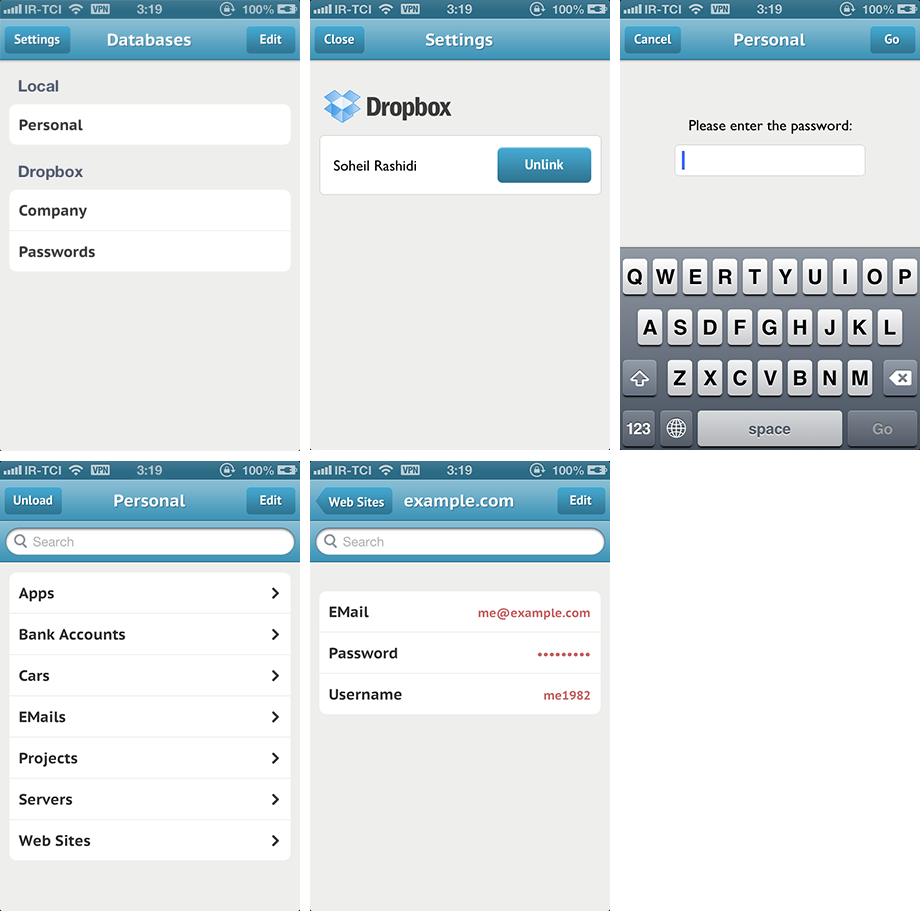
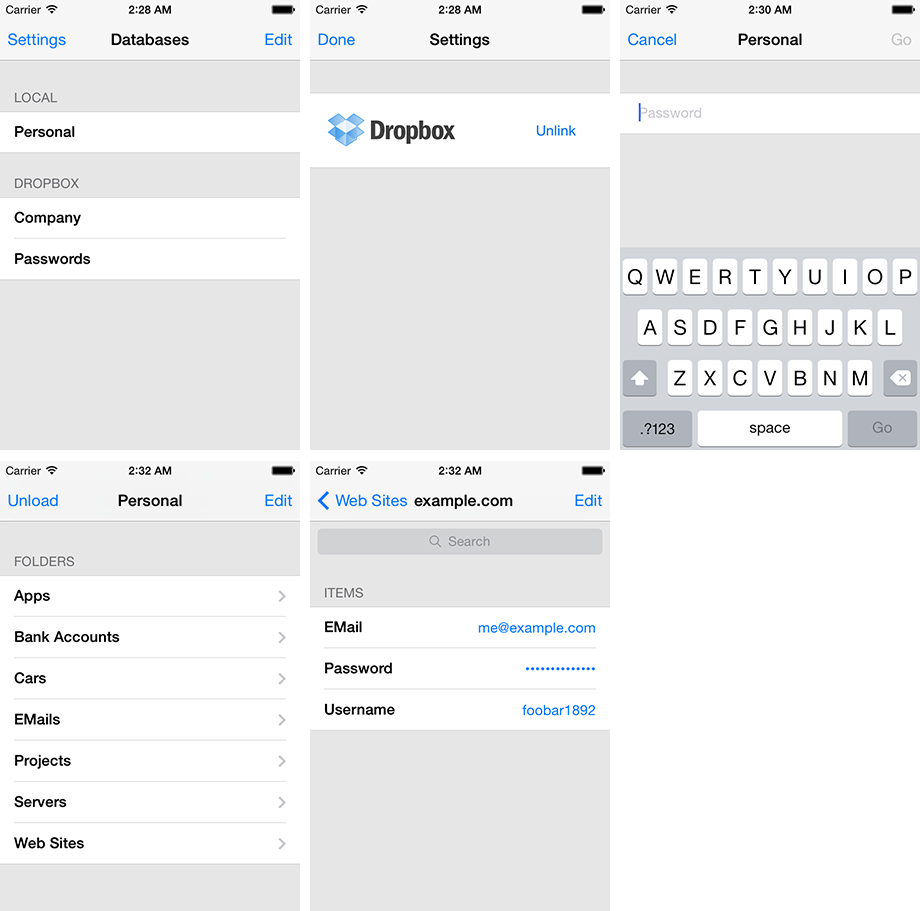
Updated README file.

diff --git a/README.md b/README.md
@@ -1,36 +1,37 @@
 # Sherlock
-Sherlock is a very simple password and personal information manager for iOS. All data is encrypted using 3DES algorithm and is stored locally or on Dropbox.
-
-## Caution
-This is software and software has bugs. Please, please and PLEASE backup your data regularly.
+Sherlock is a simple password and personal information manager for iOS. All data is encrypted using 3DES algorithm and is stored locally or on Dropbox.
 
 ## Screenshots
 ![Screenshots](/Screenshots.png)
 
 ## Requirements
-+ iOS 5.0
++ iOS 7.0
 
 ## Other Platforms
++ Mac CLI: https://github.com/soheilpro/Sherlock-MacCLI
 + Windows: https://github.com/soheilpro/Sherlock-Win
 
 ## Version History
++ **1.2**
+	+ Updated to iOS 7.
+
 + **1.1**
-	+ Switched from Dropbox's Sync API to Core API
-	+ Some minor enhancements
+	+ Switched from Dropbox's Sync API to Core API.
+	+ Some minor enhancements.
 
 + **1.0**
-	+ Initial release
+	+ Initial release.
 
 ## Roadmap
-+ Adding support for iPad
-+ Adding support for stronger encryption algorithms
-+ Adding support for iCloud and Google Drive
-+ Adding support for storing non-textual data like images
++ Adding support for iPad.
++ Adding support for stronger encryption algorithms.
++ Adding support for iCloud and Google Drive.
++ Adding support for storing non-textual data like images.
 
 ## Developers
 To build and run this app on your iDevices you need to have an Apple Developer account.
 
-If you want the Dropbox support as well, you need to create a Dropbox App and update the AppDelegate.m file with your app key and secret.
+If you want Dropbox support as well, you need to create a Dropbox App and update the AppDelegate.m file with your app key and secret.
 
 ## Contributing
 Please report issues or better yet, fork, fix and send a pull request.
@@ -43,7 +44,7 @@ Please report issues or better yet, fork, fix and send a pull request.
 + http://github.com/soheilpro
 
 ## Copyright and License
-Copyright 2013 Soheil Rashidi
+Copyright 2014 Soheil Rashidi
 
 Licensed under the The MIT License (the "License");
 you may not use this work except in compliance with the License.
